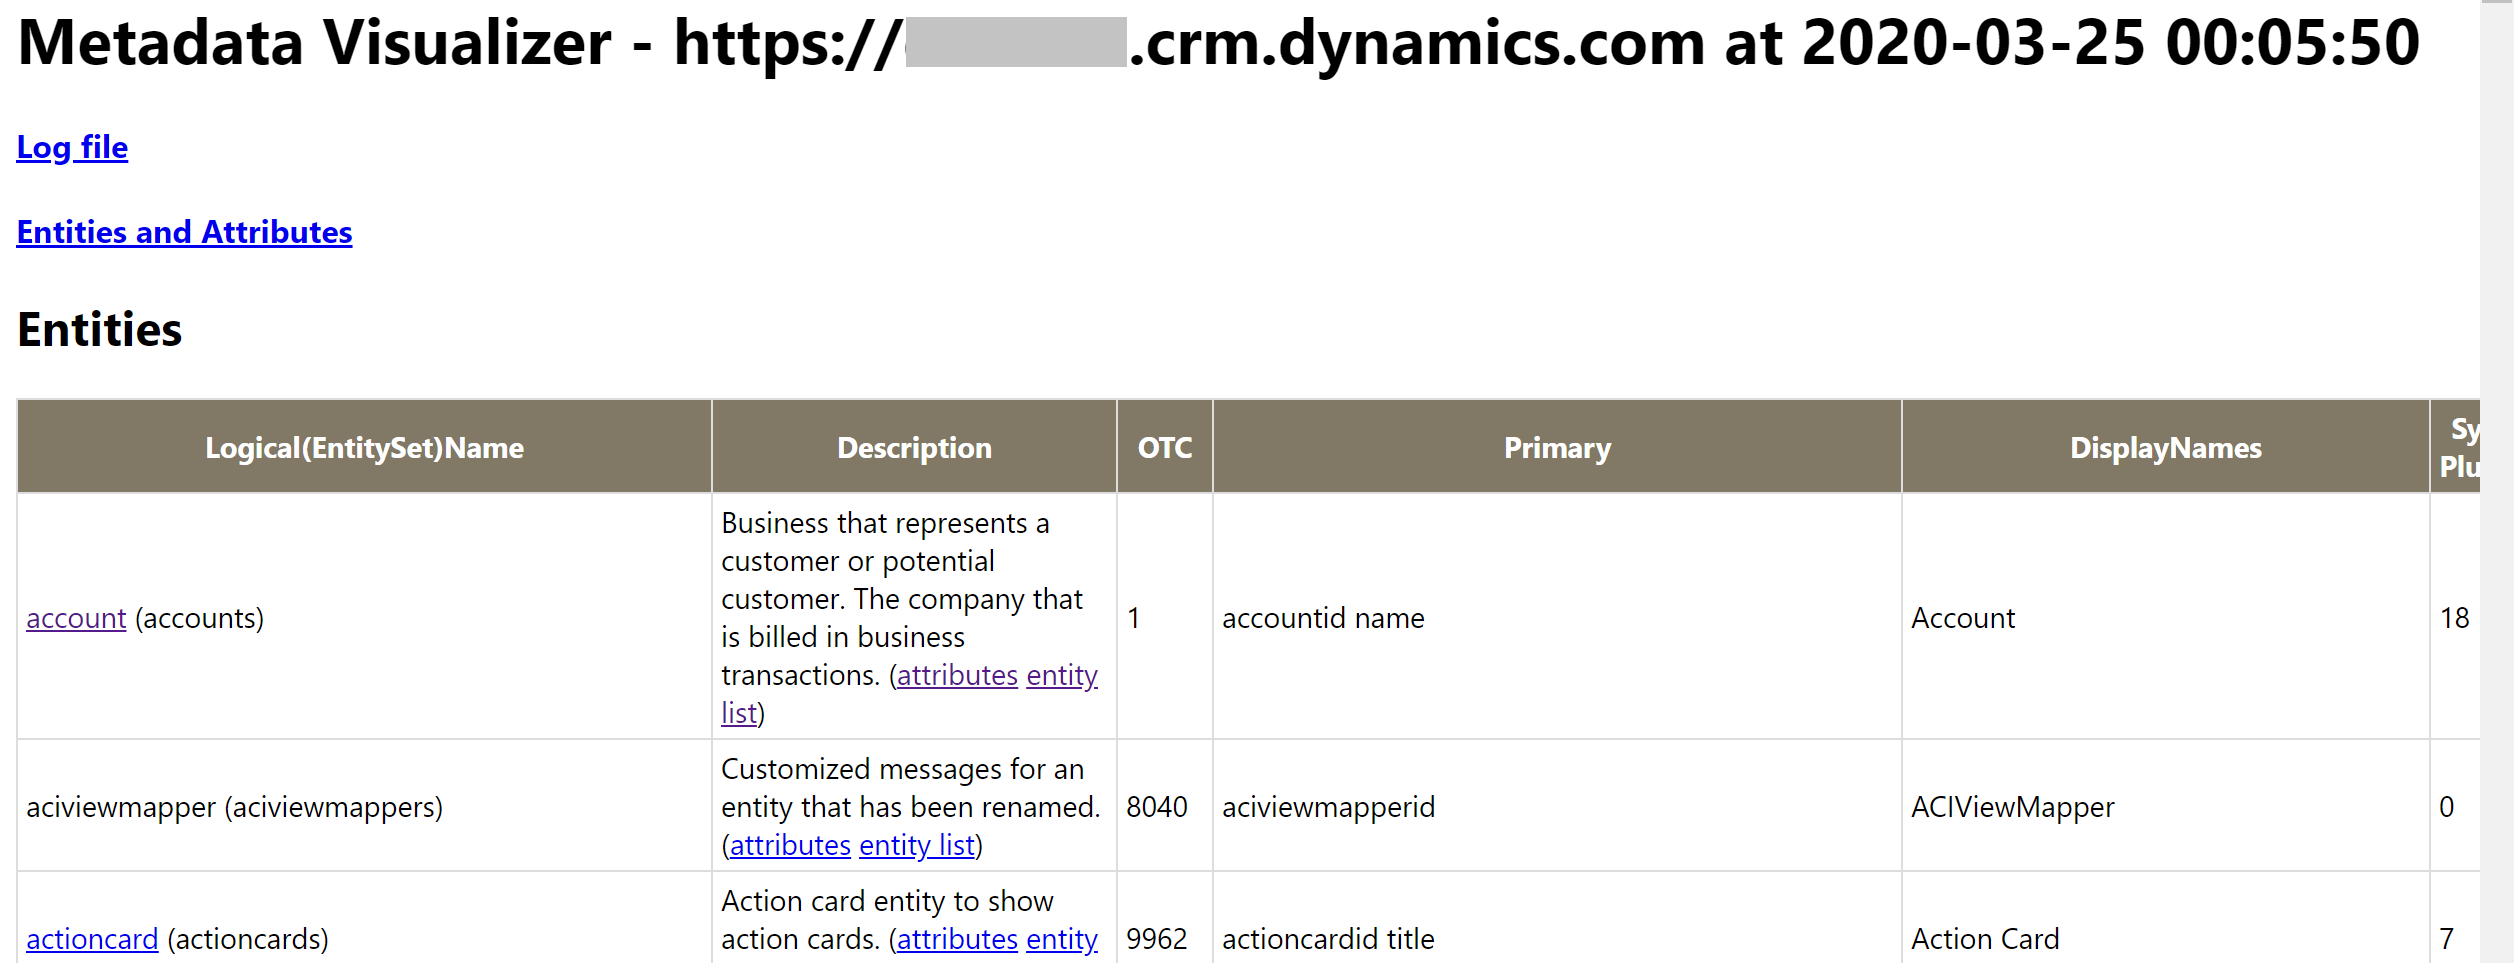
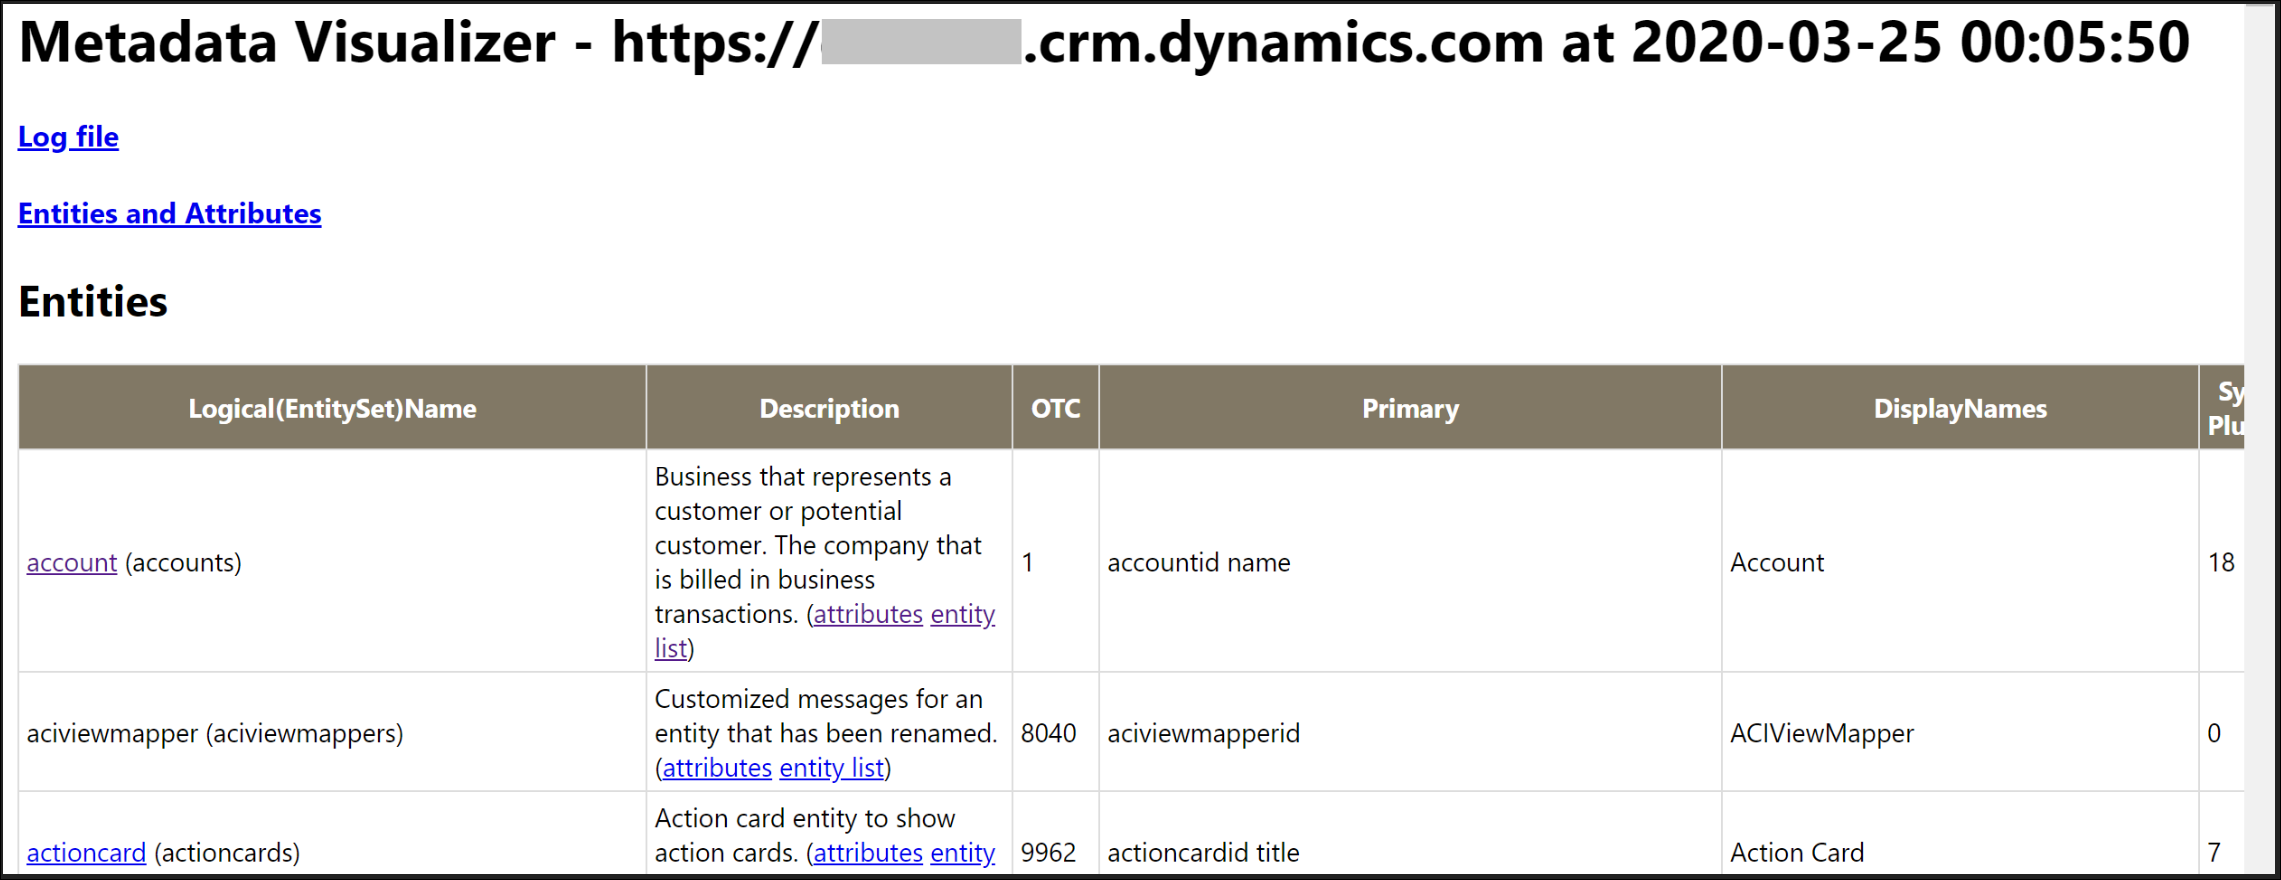
More updates

diff --git a/cds/Metadata-Visualizer/README.md b/cds/Metadata-Visualizer/README.md
@@ -28,46 +28,66 @@ You can select specific entities and check their relationships in a visual diagr
 
 ## How to use the application
 
-### Download Metadata from the Online organization
+### Building and running the application
 
-Type your **organization URL** (e.g. https://contoso.crm.dynamics.com) in URL field then click **Download Metadata** button.
+1. Load the solution into Visual Studio, build, and then run the program.
+2. After the download dialog is displayed, enter your target organization URL in the provided field of the dialog.
+3. When prompted, specify a folder where the organization's metadata is to be stored.
+4. When prompted, provide your organization logon information.
+5. The organization metadata download will start, and this may take several minutes.
+6. The entity relationship (ER Viewer) window opens and displays an initial (default) diagram of the pre-selected entities.
+7. Resize the window as appropriate.
+8. Select the zoom (+) icon in the toolbar to enlarge the diagram and the pan (hand) icon to pan around the view.
+9. Hover the cursor over the other icons in the toolbar to see what other functionality is available.
 
-### ALl entities checkbox
+### Changing the entity diagram
 
-Tick this checkbox if Entity definitions and ER diagram reports are required. This option needs to download all entities metadata therefore execution will take longer.
+1. In the ER Viewer, select **Entities** > **Clear**.
+2. In the left panel select any entities that you want to be rendered in the diagram (i.e., account, contact, activityparty).
+3. Select **Diagram** > **Draw Selected Entities** to view those entities and their relationships.
+4. Next, select **Diagram** > **Draw Related Entities** to view all other entities that have a relationship with the entities specified in step #2.
 
-### ER (Entity Relationship) viewer
+![Entity Relationship (ER) Viewer](./images/er-viewer.png)
 
-You can browse the downloaded Entity Relationship Json file using the ER viewer. 
+### Viewing entity metadata
 
-1. Click **ER Viewer** button. From **Diagram - Open ER Json file** menu the json file downloaded.
-2. After entities are loaded choose **Diagram - Draw Selected Entities** menu to render the diagram.
-3. **Click the entity name** to display the scheme information and its trigger registrations.
-4. **Hover the mouse pointers on relations** to see the relation information.
+1. In the ER Viewer, hover the cursor over an entity in the entity diagram to view a summary description.
+2. Select the entity in the diagram to display the Schema Viewer showing the entity's metadata (attributes and relationships).
+3. Select another entity in the diagram to now view its metadata in the Schema Viewer window.
+4. Logon to your organization using your default internet browser.
+5. In the ER Viewer window, select an entity and choose **Selected Entity** > **Copy URL**.
+6. Paste the URL into your browser to see the list of records for that entity. Note that you may need to choose a different view in the browser page other than the default view to see the records for that entity.
 
-Please check FAQ sections for further information how ER viewer works.
+![Schema Viewer](./images/schema-viewer.png)
+
+### Viewing plug-in and custom activity registrations
+
+1. Logon to an organization in your default internet browser.
+2. In the ER Viewer, select **Diagram** > **Trigger information**. A browser window or tab will open displaying entity information and registered plug-in/custom workflow activity information.
+3. Select an entity link (blue underlined text) to jump to the plug-in/custom activity information for that entity.
+4. Select other links to see what kind of information is available from that browser page.
+
+![Trigger information page](./images/trigger-view.png)
 
 ## FAQs
 
-**Q. How can I limit the entities rendered in the ER diagram?**
+Please check this FAQ section for further information on how this application works.
+
+**Q. How can I specify the entities rendered in the ER Viewer diagram?**
 
 You need to select a list of entities you want to use.
 
-1. Choose **Entities - Clear** to untick all entities.
-2. Tick the entities you are interested.
-3. Use either **Diagram - Draw Selected Entities** or **Draw Related Entities** menu. 
+1. Choose **Entities > Clear** to de-select all entities.
+2. Select (check) the entities you are interested in viewing.
+3. Use either **Diagram > Draw Selected Entities** or the **Draw Related Entities** menu items.
 
-**Draw Selected Entities** menu automatically expands the selection to the related entities to the ones currently selected.
-You can copy and paste the list of entities selected by **Entities - Copy** and **Entities - Paste** menu.
+The **Draw Selected Entities** menu automatically expands the selection to the related entities to the ones currently selected.
+You can copy and paste the list of entities selected by choosing **Entities > Copy** and **Entities > Paste** menu items.
 
 **Q. How to add related entities to/remove the entity from the diagram?**
 
-Click the Entity in the diagram. Then choose **Selected Entity - Remove** menu. Same way you can perform different operations such as **Select Related Entities** on the selected entity as well.
+Click the entity in the diagram and then choose the **Selected Entity > Remove** menu item. In the same way you can perform different operations such as **Select Related Entities** on the selected entity.
 
-**Q. What library is used to render the ER diagram?**
+**Q. What library is used to render the ER Viewer diagram?**
 
-[Microsoft Automatic Graph Layout](https://www.microsoft.com/en-us/research/project/microsoft-automatic-graph-layout/) (MSAGL). *MSAGL is a .NET tool for graph layout and viewing. It was developed in Microsoft by Lev Nachmanson, Sergey Pupyrev, Tim Dwyer and Ted Hart.*
-
-**Q. What are the mysterious 3 alphabet letters dumped in the scheme text file?**
-
-They are the first 3 letters of the entity name hashcode. These letters can help text comparison tools to find matching rows correctly.
+[Microsoft Automatic Graph Layout](https://www.microsoft.com/research/project/microsoft-automatic-graph-layout/) (MSAGL). *MSAGL is a .NET tool for graph layout and viewing. It was developed in Microsoft by Lev Nachmanson, Sergey Pupyrev, Tim Dwyer and Ted Hart.*
